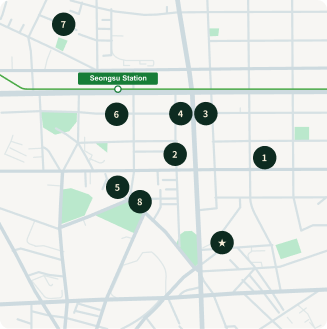
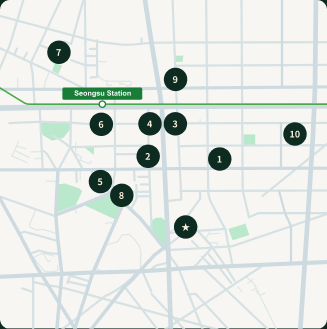
77

diff --git a/seongsu/index.html b/seongsu/index.html
@@ -80,7 +80,24 @@ img { display: block; max-width: 100%; }
 .journey .ct { font-size: 13px; letter-spacing: .06em; color: var(--ink-sub); }
 .journey .ct b { color: var(--gold-light); font-weight: 700; }
 
-/* 일곱 칸 막대 */
+/* 한 줄짜리 막대 — 2026-11-10 시안을 재서 옮겼습니다.
+   선 두께 4, 손잡이 지름 10, 금색 #D9BB76, 남은 쪽 #46604A.
+   손잡이가 양끝에서 잘리지 않도록 선을 5px(반지름) 씩 들여 둡니다. */
+.rail { position: relative; flex: none; height: 10px; margin: 9px 24px 0; }
+.rail .trk, .rail .fill {
+  position: absolute; top: 50%; transform: translateY(-50%);
+  height: 4px; border-radius: 2px;
+}
+.rail .trk { left: 5px; right: 5px; background: #46604A; }
+.rail .fill { left: 5px; width: 0; background: #D9BB76; }
+.rail .knob {
+  position: absolute; top: 50%; width: 10px; height: 10px;
+  margin: 0; border-radius: 50%; background: #D9BB76;
+  transform: translate(-50%, -50%);
+}
+.journey .ct.rail-ct { font-size: 13px; font-weight: 700; letter-spacing: .02em; color: #D9BB76; }
+
+/* 일곱 칸 막대 (K-컬처 쪽) */
 .bars { flex: none; padding: 9px 24px 0; display: flex; gap: 6px; }
 .bars i { flex: 1; height: 3px; border-radius: 2px; background: var(--bar-off); }
 .bars i.on { background: linear-gradient(90deg, var(--gold-deep), var(--gold-light)); }
@@ -120,10 +137,15 @@ img { display: block; max-width: 100%; }
 .nextpill b { font-weight: 700; }
 
 /* ── 스탬프 칸 ─────────────────────────────────── */
-.stamps { flex: none; width: 100%; display: flex; gap: 6px; justify-content: center; }
+/* 시안대로 한 줄에 일곱 개씩, 왼쪽에 붙여 7+4 로 접습니다.
+   (7*37 + 6*7 = 301 — 폭 327 안에 들어갑니다) */
+.stamps {
+  flex: none; width: 100%; max-width: 301px;
+  display: flex; flex-wrap: wrap; gap: 7px; row-gap: 9px;
+  justify-content: flex-start; align-self: flex-start;
+}
 .stamps .s {
-  /* 칸이 늘어도 줄에서 넘치지 않도록 — 37 을 넘지 않는 선에서 스스로 줄어듭니다.
-     (거점이 여덟 곳이 되면서 37+7 짜리로는 375 폭을 벗어났습니다) */
+  /* 그래도 더 늘어날 때를 대비해 37 을 넘지 않는 선에서 스스로 줄어듭니다 */
   flex: 0 1 37px; min-width: 0; max-width: 37px;
   aspect-ratio: 1; width: 37px; height: 37px;
   border-radius: 50%;
@@ -656,6 +678,6 @@ img { display: block; max-width: 100%; }
   // 어느 전시인지 — 설정·저장칸·서버 이름이 여기서 갈립니다
   window.STAMP = { project: 'seongsu' };
 </script>
-<script src="../assets/stamp.js?v=15"></script>
+<script src="../assets/stamp.js?v=17"></script>
 </body>
 </html>

diff --git a/assets/stamp.js b/assets/stamp.js
@@ -238,6 +238,24 @@
         bars += '<i class="' + (S.got[sp.id] ? 'on' : '') + '"></i>';
       });
     }
+    /* 성수는 칸칸이 끊긴 막대가 아니라 한 줄짜리 선에 손잡이가 미끄러집니다
+       (2026-11-10 시안). 왼쪽은 금색, 오른쪽은 짙은 풀색, 경계에 동그란 손잡이.
+       손잡이가 선 밖으로 나가지 않게 양끝을 반지름(5px)만큼 들여 둡니다. */
+    if (CFG.railBar) {
+      var done = total() ? (count() / total()) : 0;
+      if (done > 1) done = 1;
+      var at = 'calc(5px + (100% - 10px) * ' + done + ')';
+      return '<div class="journey">'
+        + '<span class="lb">' + esc(U('journey')) + '</span>'
+        + '<span class="ct rail-ct">' + n + '/' + total() + '</span>'
+        + '</div>'
+        + '<div class="rail">'
+        + '<i class="trk"></i>'
+        + '<i class="fill" style="width:calc((100% - 10px) * ' + done + ')"></i>'
+        + '<b class="knob" style="left:' + at + '"></b>'
+        + '</div>';
+    }
+
     return '<div class="journey">'
       + '<span class="lb">' + esc(U('journey')) + '</span>'
       + '<span class="ct"><b>' + n + '</b> / ' + total() + '</span>'

diff --git a/stamp/index.html b/stamp/index.html
@@ -482,6 +482,6 @@ img { display: block; max-width: 100%; }
 <!-- ?v= 는 묵은 파일을 밀어내는 꼬리표입니다. assets/stamp.js 를 고칠 때마다
      숫자를 하나 올려 주세요. 깃허브가 10분 동안 묵혀 두는데, 그 사이
      새 꾸밈과 옛 stamp.js 가 섞이면 단추 색 같은 게 어긋납니다. -->
-<script src="../assets/stamp.js?v=15"></script>
+<script src="../assets/stamp.js?v=17"></script>
 </body>
 </html>
